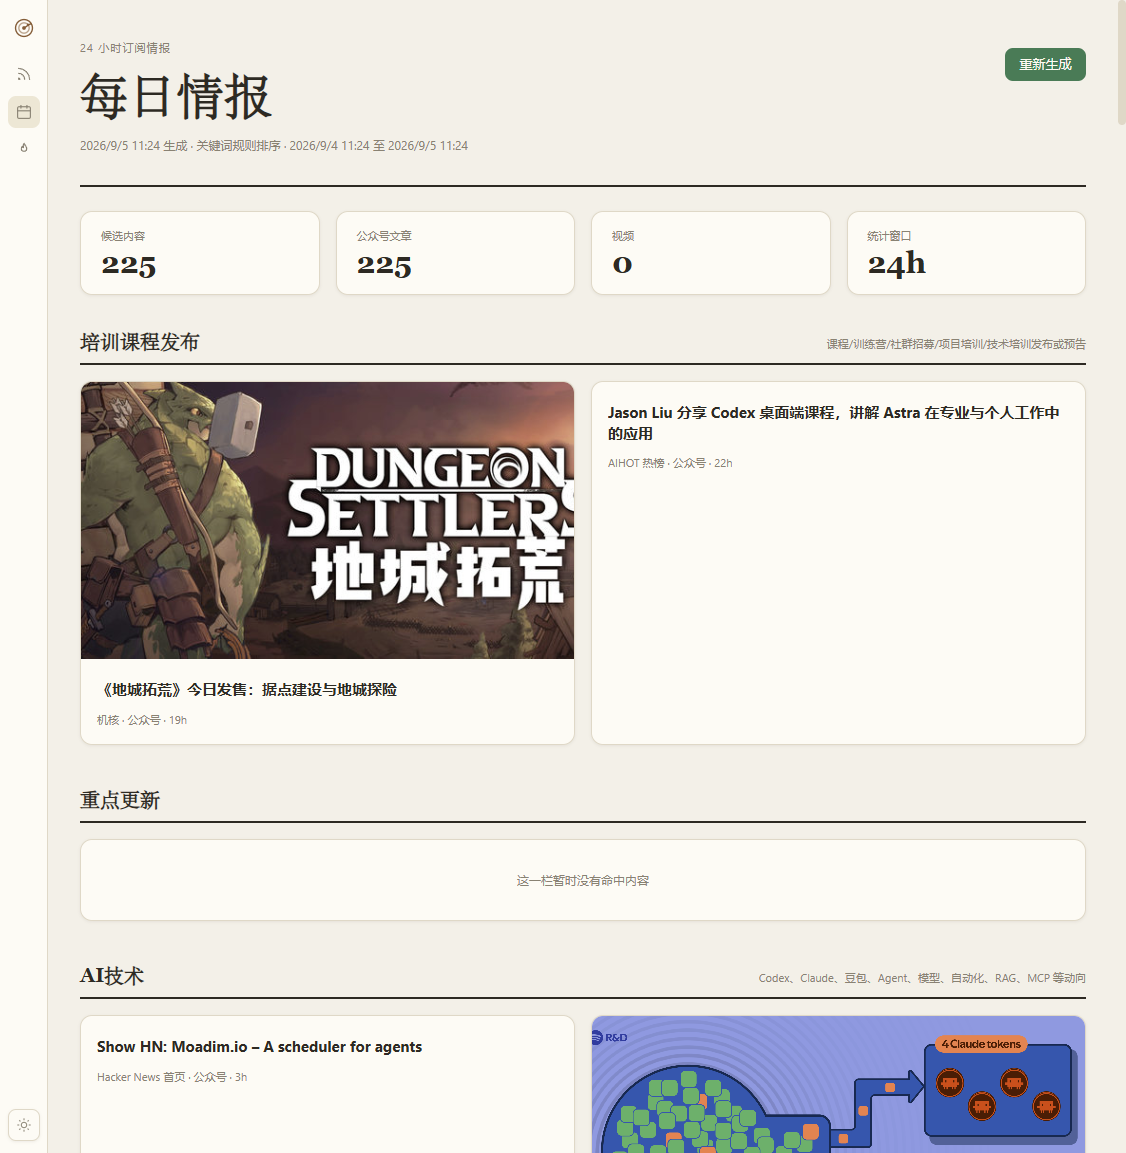
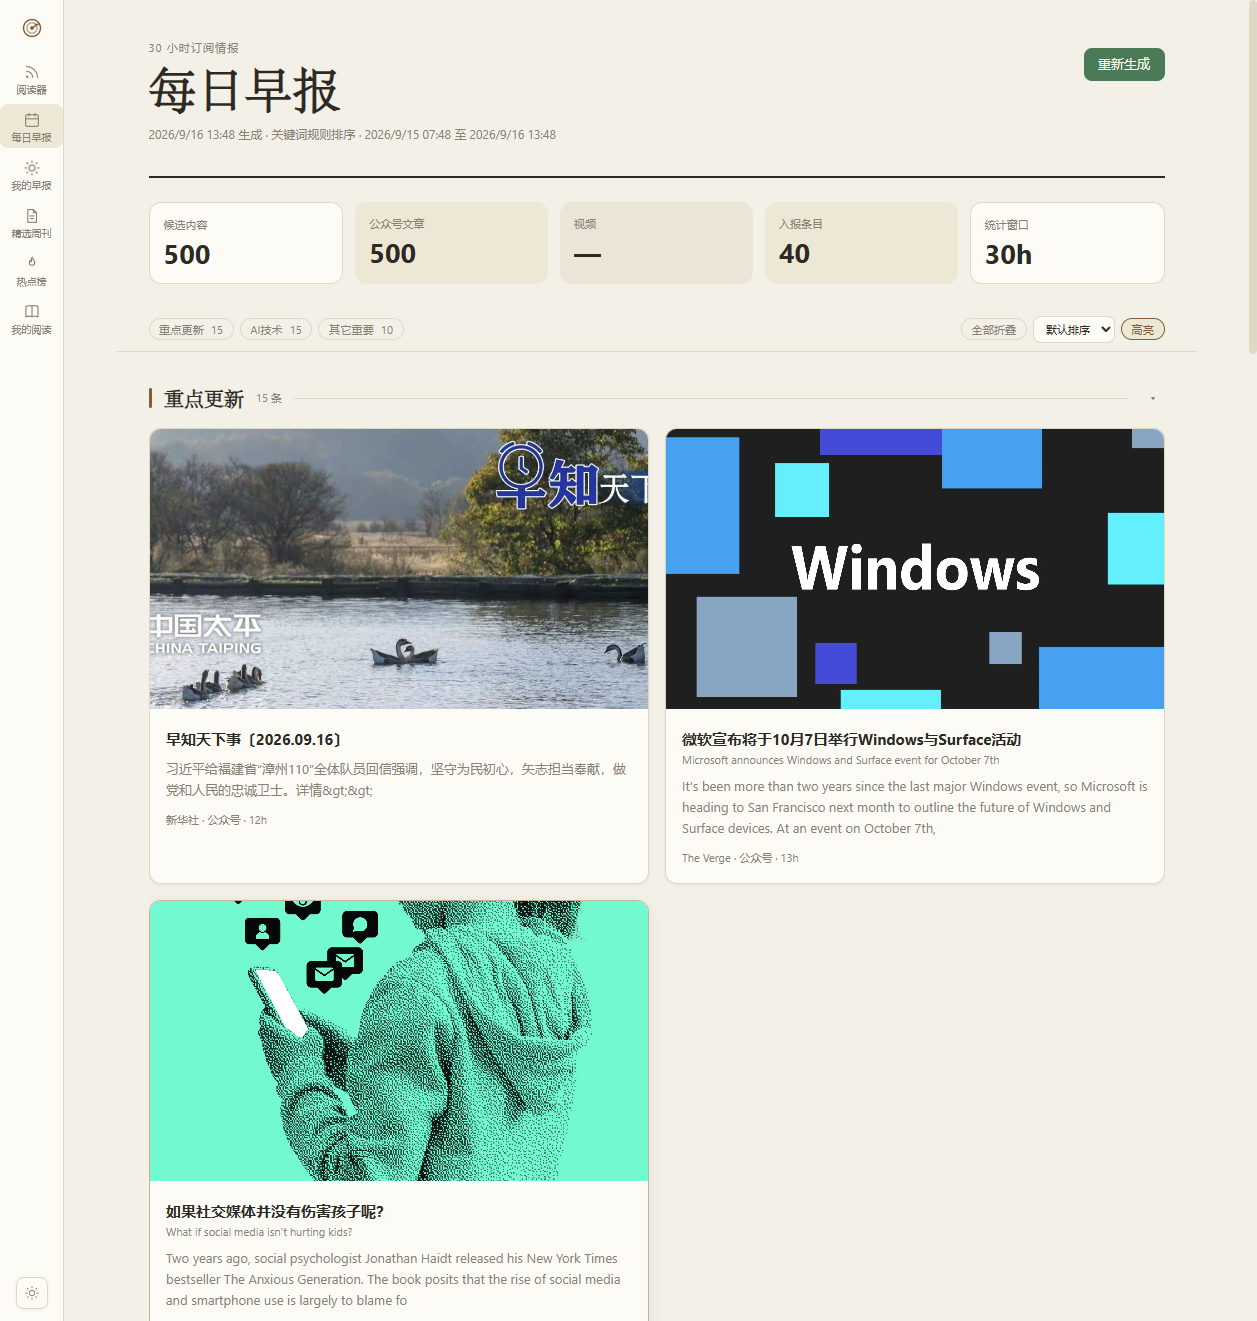
docs(readme): 重写 README + 线上生产截图更新（2026-09-16）——新增我的早报/精选周刊/热搜事件/我的阅读/管理后台早报中心/系统管理 6 张截图，功能描述同步源四轴/早报体系/AI增强等最新进展

diff --git a/README.md b/README.md
@@ -2,13 +2,13 @@
 
 > **Q**uan**W**ang **I**ntel **S**ystem — 私人 AI 情报阅读器
 >
-> 聚合 RSS、微信公众号、B站、抖音、X/Twitter、热榜等多源信息，自动生成每日情报日报，支持 AI 辅助分析与多端推送报警。
+> 聚合 RSS、微信公众号、B站、抖音、X/Twitter、热榜等多源信息，自动生成每日情报日报与个性化早报，支持 AI 辅助分析、翻译、精选周刊和多端推送报警。
 >
-> **生产地址**：<https://qwis-intel.vercel.app>（阅读器 `/reader/`、日报 `/daily/`、热点榜 `/hot/`、管理后台 `/admin/`）
+> **生产地址**：<https://qwis-intel.vercel.app>
 
 [![License](https://img.shields.io/badge/license-Private-blue)](#)
 [![Node](https://img.shields.io/badge/node-%3E%3D20-green)](#)
-[![Tests](https://img.shields.io/badge/tests-%E8%A7%81ISSUES-orange)](docs/ISSUES.md)
+[![Deploy](https://img.shields.io/badge/deploy-Vercel-black?logo=vercel)](https://qwis-intel.vercel.app)
 
 ---
 
@@ -25,18 +25,23 @@
 | **热榜聚合** | newsnow API | 微博/知乎/百度/头条/抖音/B站/贴吧/澎湃/凤凰等 29 个热榜源 |
 | **YouTube** | 官方频道 RSS | 需代理可达 |
 | **X / Twitter** | RSSHub | 依赖第三方 RSS 服务将时间线转为 RSS |
+| **播客音频** | RSS enclosure | 音频直链 + 封面归位，阅读器内嵌播放器 |
 
-### 📰 每日情报日报
+### 📰 每日情报日报 & 早报体系
 
-- **四栏目布局**：培训课程 / 重点更新 / AI 技术 / 其它重要
+- **每日早报**：四栏目布局（培训课程 / 重点更新 / AI 技术 / 其它重要），每日 08:00 + 晚间 21:30 双批次生成
+- **我的早报**：个性化订阅源 + 智能推荐，基于用户关注分组加权
+- **精选周刊**：AI 策展周度精选，主题全景四视角
 - **智能生成流程**：候选收集 → 关键词分类 → Jaccard ≥0.5 去重 + 同源限流 → 出库安检（乱码/风控错误页过滤）
 - **破茧栏**：事件聚合引擎，与用户常读分组交集最小的 Top5 事件
-- **定时 + 补跑**：默认每天 08:00 生成，启动时自动补跑错过的日报，前端打开时 stale 即自动补
+- **AI 增强**：摘要/评分/标签/翻译（多轮精翻管线 + 中英对照）
 
-### 🔥 热点榜
+### 🔥 AI 热点榜
 
-- **AIHOT 聚合源**：分类映射六胶囊（模型 / 产品 / 行业 / 论文 / 教程 / 观点）
-- **事件榜**：近 72h 全域条目 Jaccard(≥0.4) 聚类，热度 = Σ权重 × 24h 半衰 × 1.5^(信源数-1)
+- **AI 精选**：自有源六维 ≥60 且 AI 相关，热榜源不入精选
+- **AI 信息实时流**：只出 AI 相关内容，60s 无感刷新
+- **热搜事件**：近 72h 全域条目 Jaccard(≥0.4) 聚类，热度 = Σ权重 × 24h 半衰 × 1.5^(信源数-1)，24 桶趋势折线
+- **分类胶囊**：AI·前沿 / Top200 精选 / 国际科技 / X·AI推主 / 科技博客 / 公众号 / 中文科技 等
 - **enrich 管线**：pending_items → 串行详情页解析 → 富字段入库
 
 ### 🚨 报警系统
@@ -45,10 +50,11 @@
 - **4 事件类型**：源熔断 / 采集停滞 / 队列异常 / 系统错误
 - **防骚扰**：120min 冷却期 + 代理失败直连重试
 
-### 📋 源库管理与自动分类
+### 📋 源库管理与源四轴模型
 
-- 全类型源统一列表，四筛选（类型/文件夹/状态）+ 搜索 + 本地分页
-- 批量启用/停用/特别关注/移动
+- **四轴语义**：上架（enabled）→ 收录（reader_visible）→ 订阅（subscription）→ 重点（spotlight）/ 屏蔽（muted）
+- 全类型源统一列表，三视图（组合卡片 / 问题源 / 检索）+ 平台接入 + 搜索 + 本地分页
+- 批量操作：启用/停用/特别关注/移动/屏蔽/收录（组级单条 SQL，云端 serverless 友好）
 - **自动分类**：内置 8 类目录（中英别名归一 + 关键词兜底），新源三挂接点自动入组
 - 存量回填 dryRun 预览 → 勾选确认 → apply
 
@@ -59,7 +65,7 @@
 - 云端（Vercel）已支持 `POST /api/queue/sync` 直接触发同步
 - 支持 B站视频、抖音视频、公众号文章三队列
 
-###  鉴权与数据安全
+### 🛡 鉴权与数据安全
 
 - **JWT 鉴权**：读者只读 GET 公开，写操作与管理接口需 Bearer Token（7d 有效）
 - **整库快照备份**：WAL 安全 backup → `data/backups/app-*.db`
@@ -68,37 +74,69 @@
 
 ---
 
-##  页面预览
+## 🖥 页面预览
 
-### 阅读器首页 (`/reader/`)
+> 以下截图均来自线上生产环境 <https://qwis-intel.vercel.app>（2026-09-16 截取）。
 
-文章/视频双 Tab + 分组导航 + 未读计数 + 源级状态显示
+### 阅读器 (`/reader/`)
+
+文章/视频双 Tab + 分组导航 + 今日早报摘要卡 + 「今日」滚动 24h 视图 + 未读计数
 
 ![阅读器首页](docs/screenshots/01-reader-page.png)
 
-### 每日情报页 (`/daily/`)
+### 每日早报 (`/daily/`)
 
-四栏目布局（培训课程/重点更新/AI技术/其它）+ 统计卡片 + 破茧栏
+四栏目布局（培训课程 / 重点更新 / AI 技术 / 其它）+ 统计卡片 + 破茧栏 + AI 评分/摘要 + 中英对照
 
-![每日情报](docs/screenshots/02-daily-page.png)
+![每日早报](docs/screenshots/02-daily-page.png)
 
-### 热点榜页 (`/hot/`)
+### 我的早报 (`/mybrief/`)
 
-精选/全部动态/热点榜三 Tab + 六分类胶囊（模型/产品/行业/论文/教程/观点）+ 时间线
+个性化订阅源 + 智能推荐 + 主题导语 + 阅读足迹回顾
+
+![我的早报](docs/screenshots/09-mybrief-page.png)
+
+### 精选周刊 (`/weekly/`)
+
+AI 策展周度精选 + 主题全景四视角 + 补充阅读
+
+![精选周刊](docs/screenshots/10-weekly-page.png)
+
+### 热点榜 (`/hot/`)
+
+AI 精选 / AI 信息实时流 / 热搜事件三 Tab + 七分类胶囊 + 事件卡带趋势折线
 
 ![热点榜](docs/screenshots/03-hot-page.png)
 
+### 热搜事件榜
+
+72h 全域聚类 + 24 桶趋势折线 + 分组信源胶囊 + 热度降序
+
+![热搜事件](docs/screenshots/11-hot-events.png)
+
+### 我的阅读 (`/reading/`)
+
+阅读沉淀 + 批量管理 + 导出 + 阅读足迹
+
+![我的阅读](docs/screenshots/12-reading-page.png)
+
 ### 管理后台 (`/admin/`)
 
-7 Tab（公众号 RSS / B站 / 抖音 / 日报设置 / 数据 / 报警管理 / 热点榜）
+5 Tab 收敛：源库（组合/问题源/检索/平台接入）/ 早报中心 / 热点榜策展 / AI 能力 / 系统
 
 ![管理后台](docs/screenshots/04-admin-page.png)
 
-### 队列配置面板
+### 管理后台 · 早报中心
 
-嵌入 B站/抖音/公众号 Tab 内 — 云端队列 API 地址 + Token + 轮询间隔 + 同步按钮
+生成历史 + 订阅源配置 + 日报栏目/时间设置 + 晚间主批配置
 
-![队列配置面板](docs/screenshots/05-queue-panel.png)
+![早报中心](docs/screenshots/07-admin-brief-center.png)
+
+### 管理后台 · 系统
+
+数据/监控/报警分区 + 整库快照 + 健康状态
+
+![系统管理](docs/screenshots/08-admin-system.png)
 
 ---
 
@@ -133,10 +171,13 @@ npm start              # 生产模式
 npm run dev            # 开发模式（nodemon 热重载）
 
 # 6. 访问
-# 阅读器:  http://localhost:3000/reader/
-# 每日情报: http://localhost:3000/daily/
-# 热点榜:   http://localhost:3000/hot/
-# 管理后台: http://localhost:3000/admin/
+# 阅读器:    http://localhost:3000/reader/
+# 每日早报:  http://localhost:3000/daily/
+# 我的早报:  http://localhost:3000/mybrief/
+# 精选周刊:  http://localhost:3000/weekly/
+# 热点榜:    http://localhost:3000/hot/
+# 我的阅读:  http://localhost:3000/reading/
+# 管理后台:  http://localhost:3000/admin/
 ```
 
 ### 宝塔 / 服务器部署（PM2）
@@ -163,7 +204,7 @@ pm2 startup   # 开机自启
 ### 测试
 
 ```bash
-npm test              # 回归测试（数量见 docs/ISSUES.md）
+npm test              # 回归测试
 node smoke-test.js    # 冒烟测试（生产库副本，零副作用）
 ```
 
@@ -176,8 +217,9 @@ node smoke-test.js    # 冒烟测试（生产库副本，零副作用）
 | **后端** | Node.js 20+ / Express 4 / better-sqlite3 (WAL) |
 | **前端** | React 18 / Vite 5 / Tailwind CSS 3 |
 | **采集** | rss-parser / Playwright (抖音) / undici (HTTP) |
-| **调度** | node-cron / 自定义 due 驱动 tick 调度器（本地）；GitHub Actions runner 直写 Turso + cron-job.org 外置触发器双保险（云端主链路，2026-09-11 方案A） |
-| **云端** | Vercel Serverless (读层+管理台) / Turso (libSQL) / GH Actions runner (采集) / PHP 队列 |
+| **调度** | node-cron / 自定义 due 驱动 tick 调度器（本地）；GitHub Actions runner 直写 Turso + cron-job.org 外置触发器双保险（云端主链路） |
+| **AI** | Agnes 云端（日报增强/评分/翻译/摘要）；多轮精翻管线 + 薄正文仅标题通道 |
+| **云端** | Vercel Serverless (读层+管理台) / Turso (libSQL, 东京) / GH Actions runner (采集) / PHP 队列 |
 | **部署** | Vercel (生产读层) + GH Actions (定时采集) / PM2 (本地开发/灾备) |
 
 ---
@@ -196,31 +238,31 @@ qwis-portal/
 │   └── index.js          # 入口（代理初始化 → 建表 → 路由 → 鉴权 → 调度器）
 ├── web/                  # 主前端（Vite + React + Tailwind）
 │   ├── src/
-│   │   ├── pages/        # ReaderPage / DailyPage / HotPage / AdminPage / MyReadingPage
-│   │   ├── components/   # Sidebar / ArticleList / SourceLibraryTab / FilterPanel 等
+│   │   ├── pages/        # ReaderPage / DailyPage / HotPage / AdminPage / MyBriefPage / WeeklyPage / ReadingPage
+│   │   ├── components/   # Sidebar / ArticleList / SourceLibraryTab / FilterPanel / PodcastCover 等
 │   │   ├── ui/           # 共享 UI 组件（TagPills / Stars / SourceAvatar / StatCard）
 │   │   ├── api.js        # API 客户端（自动注入 Bearer token）
 │   │   └── main.jsx      # 入口（IconRail 导航 + pathname 路由）
 │   ├── index.html        # 读者入口
 │   └── admin.html        # 管理后台入口（独立 bundle）
-├── api/                  # Vercel 读层 API（采集/日报端点保留为手动备份）
+├── lib/                  # 共用模块（AI 相关性 / 热榜事件 / 源四轴 / 媒体 / 文本清洗）
+├── api/                  # Vercel 读层 API
 │   ├── [...slug].js      # 主 API（catch-all 路由）
-│   ├── collect.js        # 采集函数（手动备份；主链路在 GH Actions runner）
+│   ├── collect.js        # 采集函数（手动备份）
 │   └── daily-generate.js # 日报生成（手动备份）
-├── portal/               # 原 Vercel 项目（已合并到根项目）
 ├── cloud/                # PHP 队列（Token 鉴权 + flock 原子操作）
 ├── config/               # customer-config.json（客户化配置）
 ├── opml/                 # bestblogs 源清单（wechat2rss / youtube / podcast）
-├── tools/                # 运维脚本
-├── tests/                # 回归测试（node:test，数量见 docs/ISSUES.md）
-├── docs/                 # 文档（RUNBOOK / 截图等）
+├── tools/                # 运维脚本（collect-turso.js = 云端采集主链路）
+├── tests/                # 回归测试（node:test）
+├── docs/                 # 文档（RUNBOOK / 截图 / specs / pitfalls 等）
 ├── archive/              # 历史资产（报告 / 规格 / 分析）
 └── trash/                # 退役代码（we-mp-rss 等）
 ```
 
 ---
 
-##  配置说明
+## ⚙ 配置说明
 
 ### `.env` 环境变量
 
@@ -264,10 +306,11 @@ qwis-portal/
 
 | 端点 | 说明 |
 |------|------|
-| `GET /api/articles` | 文章列表（默认排除热榜/聚合源） |
+| `GET /api/articles` | 文章列表（默认排除热榜/聚合源，支持 `since` 增量 + `smart` 排序） |
 | `GET /api/articles/since` | 文章增量（前端 60s 无感刷新轮询用） |
-| `GET /api/videos` | 视频列表 |
+| `GET /api/videos` | 视频列表（游标分页 + 播客并入） |
 | `GET /api/hot` | 热点榜（精选/全部动态/事件榜） |
+| `GET /api/hot/groups` | 热点分类列表（去重、只含有内容的组） |
 | `GET /api/daily` | 每日情报 |
 | `GET /api/groups` | 分组列表 |
 | `GET /api/sources` | 源列表 |
@@ -282,11 +325,12 @@ qwis-portal/
 | `/api/auth/login` | POST | 获取 JWT Token |
 | `/api/sources` | POST/PUT/DELETE | 源管理 |
 | `/api/sources/library` | GET | 源库列表（含 itemCount/contentKind） |
-| `/api/sources/batch` | POST | 批量操作（启用/停用/关注/移动） |
+| `/api/sources/batch` | POST | 批量操作（enable/spotlight/mute/visible/subscribe/interval/failover + groupScopeId） |
 | `/api/sources/autoclassify` | POST | 自动分类（dryRun/apply） |
 | `/api/groups` | POST/PUT/DELETE | 分组管理 |
 | `/api/daily` | POST | 手动生成日报 |
 | `/api/settings` | GET/PUT | 系统设置 |
+| `/api/settings/daily` | GET/PUT | 日报设置 |
 | `/api/alerts` | GET/POST/DELETE | 报警管理 |
 | `/api/backup` | POST | 整库快照备份 |
 | `/api/data/upload` | POST | 数据库上传导入 |
@@ -295,7 +339,7 @@ qwis-portal/
 | `/api/reading` | POST/PUT | 阅读记录写入 |
 | `/api/audit` | GET | 审计日志 |
 
-> 管理端点（restore-all / health / queue / opml / rss-refresh / backup / data / audit 等）全表见 [docs/HANDOVER.md](docs/HANDOVER.md) §3.4
+> 管理端点全表见 [docs/HANDOVER.md](docs/HANDOVER.md) §3.4
 
 ---
 
@@ -315,24 +359,24 @@ qwis-portal/
 
 ### Q: 如何添加新的 RSS 源？
 
-1. 打开管理后台 `/admin/` → 「公众号 RSS」Tab
+1. 打开管理后台 `/admin/` → 「源库」Tab → 「平台接入」
 2. 粘贴 RSS Feed URL，填写显示名称
-3. 保存后系统自动加入调度队列
+3. 保存后系统自动加入调度队列并尝试自动分类
 
 ### Q: 海外源（YouTube/X）抓不到内容？
 
-在 `.env` 中配置 `HTTPS_PROXY` 指向本地代理（如 Clash 默认 `http://127.0.0.1:7890`）。国内服务（云端队列/DeepSeek）会自动通过 `NO_PROXY` 绕过代理。
+在 `.env` 中配置 `HTTPS_PROXY` 指向本地代理。国内服务（云端队列/DeepSeek）会自动通过 `NO_PROXY` 绕过代理。
 
 ### Q: 日报没有自动生成？
 
-- 云端（Vercel）：每天北京时间 09:03 由 GH Actions runner 生成；排查先看 Turso settings `cloud.collect` 心跳，再看 GitHub Actions 运行记录
-- 本地：检查调度器 `npm run pm2:logs`；手动触发：管理后台 → 「日报设置」Tab → 「重新生成」；前端打开 `/daily/` 时 stale 会自动补跑
+- 云端（Vercel）：每天北京时间 08:00 + 21:30 由 GH Actions runner 生成；排查先看 Turso settings `cloud.collect` 心跳，再看 GitHub Actions 运行记录
+- 本地：检查调度器 `npm run pm2:logs`；手动触发：管理后台 → 「早报中心」→ 「重新生成」
 
 ### Q: 如何备份和恢复数据？
 
-- **备份**：管理后台 → 「数据」Tab → 「整库快照」，或调用 `POST /api/backup`
-- **恢复**：管理后台 → 「数据」Tab → 上传 `.db` 文件（文件名白名单 + SQLite 头校验）
-- **云端语义**：配置备份存 Turso `settings` 表；文件型整库快照（`.db`）在云端（Vercel）不支持（501），需整库迁移请用 `tools/migrate-to-turso.js`
+- **备份**：管理后台 → 「系统」Tab → 「整库快照」，或调用 `POST /api/backup`
+- **恢复**：管理后台 → 「系统」Tab → 上传 `.db` 文件（文件名白名单 + SQLite 头校验）
+- **云端语义**：配置备份存 Turso `settings` 表；文件型整库快照在云端不支持（501），需整库迁移请用 `tools/migrate-to-turso.js`
 
 ---
 
@@ -343,34 +387,32 @@ qwis-portal/
 | `npm start` | 启动服务（生产模式） |
 | `npm run dev` | 开发模式（nodemon 热重载） |
 | `npm run build` | 构建前端 |
-| `npm test` | 运行回归测试（数量见 docs/ISSUES.md） |
+| `npm test` | 运行回归测试 |
 | `npm run pm2:start` | PM2 启动守护进程 |
 | `npm run pm2:restart` | PM2 重启 |
 | `npm run pm2:logs` | PM2 查看日志 |
 | `node smoke-test.js` | 冒烟测试（零副作用） |
-| `node tools/collect-turso.js collect` | 手动直采云端 Turso（读 .env 的 TURSO_*，主链路同款脚本） |
+| `node tools/collect-turso.js collect` | 手动直采云端 Turso（主链路同款脚本） |
 | `node tools/audit-cloud.js` | 云端 19 项健康检查 |
-| `node tools/sync-portal.js` | 手动同步门户快照 |
 
 ---
 
-##  文档索引
+## 📖 文档索引
 
 | 文档 | 说明 |
 |------|------|
 | [ARCHITECTURE.md](ARCHITECTURE.md) | 架构文档（系统全景、数据通路、已知坑、协作规则） |
-| [docs/changes/2026-09-11-runner-direct-collect.md](docs/changes/2026-09-11-runner-direct-collect.md) | **方案A 变更记录**（云端采集移入 runner 直写 Turso，根治网页不自动更新） |
+| [docs/FEATURE_MATRIX.md](docs/FEATURE_MATRIX.md) | 功能矩阵（功能/端点状态唯一权威） |
+| [docs/CLOUD_PIPELINE_GUIDE.md](docs/CLOUD_PIPELINE_GUIDE.md) | 云端定时管线指南 |
 | [docs/HANDOVER.md](docs/HANDOVER.md) | 交接/对接文档（Vercel 配置、凭据速查、API 列表）⚠ 含敏感凭据，已 gitignore |
 | [docs/DEV_GUIDE.md](docs/DEV_GUIDE.md) | 开发者上手指南 |
 | [docs/DEVELOPMENT_STANDARDS.md](docs/DEVELOPMENT_STANDARDS.md) | 开发规范与验收标准 |
-| [docs/ISSUES.md](docs/ISSUES.md) | 已知问题清单（活文档） |
 | [docs/RUNBOOK.md](docs/RUNBOOK.md) | 运维手册 |
-| [docs/FEATURE_MATRIX.md](docs/FEATURE_MATRIX.md) | 功能矩阵（功能/端点状态唯一权威） |
-| [docs/CLOUD_PIPELINE_GUIDE.md](docs/CLOUD_PIPELINE_GUIDE.md) | 云端定时管线指南 |
+| [docs/ISSUES.md](docs/ISSUES.md) | 已知问题清单（活文档） |
 | [docs/DELIVERY_VERIFICATION.md](docs/DELIVERY_VERIFICATION.md) | 交付验证清单 |
-| [docs/INDEX.md](docs/INDEX.md) | 文档索引 |
-| [docs/ANDROID_SUBMIT_GUIDE.md](docs/ANDROID_SUBMIT_GUIDE.md) | 安卓端提交客户端指南 |
-| [docs/X_SETUP_GUIDE.md](docs/X_SETUP_GUIDE.md) | X/Twitter RSSHub 设置指南 |
+| [docs/NEXT-DEV-REQS.md](docs/NEXT-DEV-REQS.md) | 待开发需求 |
+| [docs/pitfalls/](docs/pitfalls/) | 踩坑库（采集/后端/AI/前端/部署/测试 六域 30+ 条） |
+| [docs/specs/](docs/specs/) | 功能规格文档库 |
 
 ---
 
@@ -381,9 +423,10 @@ qwis-portal/
 - **bat 文件必须 GBK 编码**：用 `tools/gen_bat.py` 生成，不要手改
 - **better-sqlite3 单进程锁**：不可 cluster 多实例，PM2 配置 `instances: 1`
 - **Vercel 为读层主部署**：`api/` 目录为读 API 代码；采集/日报主链路在 GH Actions runner（`tools/collect-turso.js` 直写 Turso），本地 Express 为开发/灾备
+- **凭据三处同步**：`COLLECT_KEY` / `TURSO_*` 等改值时必须同时改 本地 `.env` + Vercel env + GitHub Secrets
 
 ---
 
-##  License
+## 📄 License
 
 Private — 个人项目，保留所有权利。
